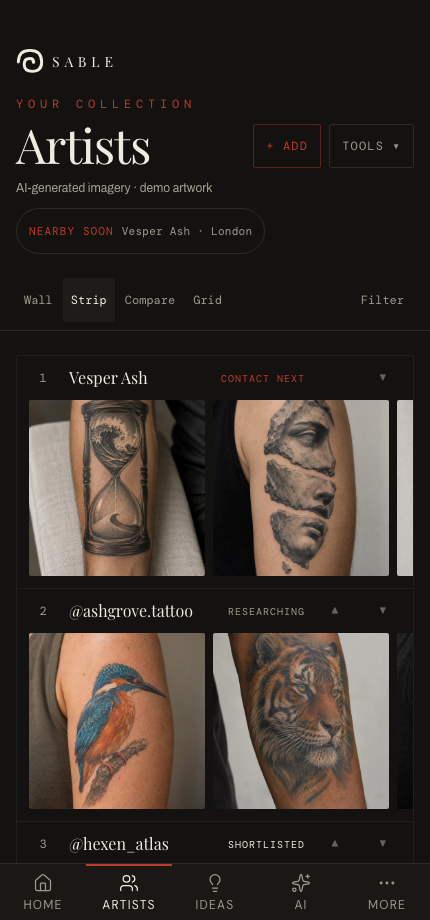
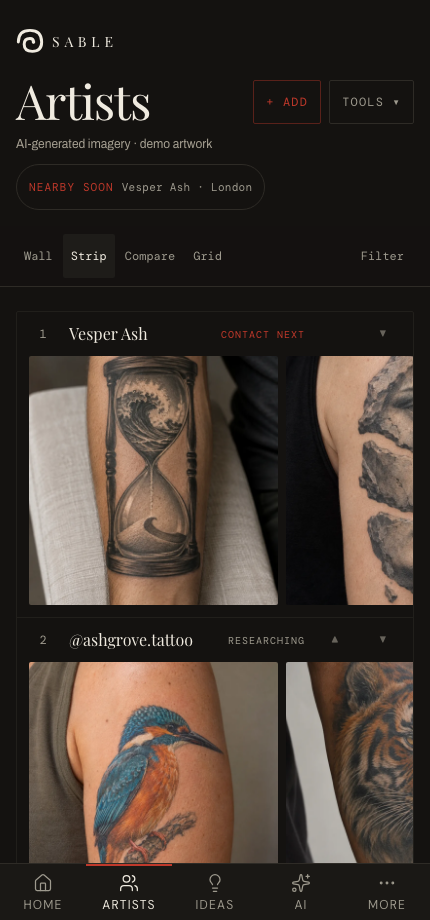
feat(artists): tune the Artists views for a 440px phone (#220)
Strip photos scale with the screen (58vw: 255px at 440, was 176px). Compare
columns scroll with the page instead of inside fixed-height boxes that ran
under the tab bar. The phone header drops its eyebrow line and top padding, so
the first wall photo starts 44px higher. Layout tests cover 440px.

diff --git a/src/components/CompareView.jsx b/src/components/CompareView.jsx
@@ -3,7 +3,9 @@ import ArtistImage from './ArtistImage'
 import useMediaQuery from '../hooks/useMediaQuery'
 import { activateOnKey } from '../a11y/activate'
 
-// #220 E: a column is a name and one run of large photos. The handle, studio and
+// #220 E: a column is a name and one run of large photos. Columns grow with
+// their photos and the page scrolls them together: each used to scroll inside
+// its own fixed-height box, which on a phone ran under the tab bar. The handle, studio and
 // tag pills that sat on every card are on the artist's own page.
 function CompareColumn({ artist, onOpen, onRemove }) {
   const displayName = artist.name || `@${artist.handle}`
@@ -32,7 +34,7 @@ function CompareColumn({ artist, onOpen, onRemove }) {
       </div>
 
       {/* Scrollable images */}
-      <div className="flex-1 overflow-y-auto p-1.5">
+      <div className="p-1.5">
         {artist.images?.length > 0 ? (
           <div data-testid="compare-photos" className="flex flex-col gap-1.5">
             {artist.images.map((src, i) => (
@@ -141,10 +143,9 @@ export default function CompareView({ artists, onOpenArtist }) {
     <div className="px-4">
       {/* Comparison grid */}
       <div
-        className="grid gap-2 md:gap-3"
+        className="grid items-start gap-2 md:gap-3 pb-6"
         style={{
           gridTemplateColumns: `repeat(${Math.min(selected.length + (selected.length < maxCompare ? 1 : 0), maxCompare)}, minmax(0, 1fr))`,
-          height: 'calc(100vh - 200px)',
         }}
       >
         {selected.map((artist) => (

diff --git a/src/test/artistsViews.test.jsx b/src/test/artistsViews.test.jsx
@@ -143,7 +143,10 @@ describe('Filmstrip rows', () => {
   it('show large photos', () => {
     const row = renderStrip()
     const photo = within(row).getByTestId('filmstrip-photo')
-    expect(photo.className).toMatch(/\bw-44\b/)
+    // Sized from the screen's width, so a bigger phone gets bigger photos:
+    // 255px on a 440px iPhone Pro Max, 226px at 390px.
+    expect(photo.className).toMatch(/w-\[58vw\]/)
+    expect(photo.className).toMatch(/h-\[58vw\]/)
     expect(photo.className).not.toMatch(/\bw-24\b/)
   })
 })
@@ -161,6 +164,9 @@ describe('Compare columns', () => {
     expect(within(column).queryByText('@ana_ink')).toBeNull()
     expect(within(column).queryByText('surrealism')).toBeNull()
     expect(within(column).getByTestId('compare-photos').className).not.toMatch(/grid-cols-2/)
+    // Columns scroll with the page, side by side, not each in its own box.
+    expect(column.innerHTML).not.toMatch(/overflow-y-auto/)
+    expect(column.parentElement.style.height).toBe('')
     expect(within(column).getByRole('button', { name: 'Remove Ana from comparison' })).toBeInTheDocument()
     // The name and every photo open the artist.
     expect(within(column).getAllByRole('button', { name: 'Open Ana' })).toHaveLength(2)

diff --git a/src/components/FilmstripView.jsx b/src/components/FilmstripView.jsx
@@ -146,11 +146,11 @@ function FilmstripRow({ artist, onOpen, index, onSetRank, onNudge, onSetStatus, 
               role="button"
               tabIndex={0}
               aria-label={`Open ${displayName}`}
-              className="shrink-0 w-44 h-44 md:w-52 md:h-52 xl:w-60 xl:h-60 rounded-xs overflow-hidden bg-ink-muted cursor-pointer hover:ring-1 hover:ring-cream-muted/30 transition-all"
+              className="shrink-0 w-[58vw] h-[58vw] md:w-52 md:h-52 xl:w-60 xl:h-60 rounded-xs overflow-hidden bg-ink-muted cursor-pointer hover:ring-1 hover:ring-cream-muted/30 transition-all"
               onClick={() => onOpen(artist)}
               onKeyDown={activateOnKey(() => onOpen(artist))}
             >
-              <ArtistImage src={src} sizes="(min-width: 1280px) 240px, (min-width: 768px) 208px, 176px" label={displayName} className="w-full h-full object-cover" monogramClassName="text-3xl" />
+              <ArtistImage src={src} sizes="(min-width: 1280px) 240px, (min-width: 768px) 208px, 58vw" label={displayName} className="w-full h-full object-cover" monogramClassName="text-3xl" />
             </div>
           ))
         ) : (

diff --git a/src/pages/Gallery.jsx b/src/pages/Gallery.jsx
@@ -327,9 +327,10 @@ export default function Gallery({ artists, setArtists, ideas = [], mergedConvent
       {/* Page header */}
       {/* #220 E: the title and its two buttons share one row at every width, so
           the Tools menu always opens from the right edge. */}
-      <div className="px-4 pt-10 pb-4">
+      <div className="px-4 pt-5 md:pt-10 pb-4">
         <Logo size={28} className="mb-3 md:hidden" />
-        <p className="font-mono text-xs text-accent tracking-[0.4em] uppercase mb-2">Your Collection</p>
+        {/* Phones show the logo above instead: one line fewer before the photos. */}
+        <p className="hidden md:block font-mono text-xs text-accent tracking-[0.4em] uppercase mb-2">Your Collection</p>
         {/* Wraps under the title at 320px, staying on the right edge. */}
         <div className="flex flex-wrap items-end justify-between gap-3">
           <h1 className="font-display text-5xl text-cream leading-none tracking-tight">Artists</h1>

diff --git a/e2e/layout.e2e.js b/e2e/layout.e2e.js
@@ -19,7 +19,8 @@ const ROUTES = [
   '/help',
 ]
 
-const WIDTHS = [320, 375, 390, 414]
+// 440 is the owner's phone (iPhone 17 Pro Max, 440 x 956).
+const WIDTHS = [320, 375, 390, 414, 440]
 
 test('a returning demo resets to six favourites without resurrecting extra entries', async ({ page }) => {
   await openDemo(page, '/gallery')

diff --git a/docs/MAINTAINING.md b/docs/MAINTAINING.md
@@ -189,7 +189,7 @@ Three projects: **iphone** (390×844, `isMobile`, touch; runs almost everything)
 
 | File | Guards |
 |---|---|
-| `layout` | No route or gallery view wider than the screen at 320/375/390/414px; Wall controls do not collide and phone Grid labels wrap within two columns |
+| `layout` | No route or gallery view wider than the screen at 320/375/390/414/440px; Wall controls do not collide and phone Grid labels wrap within two columns |
 | `viewers` | Swipe/tap/close in both viewers; delete + undo; drawers paint above the viewer; Escape peels **one** layer |
 | `stl` | Real canvas → mesh → download for relief, line art (+ mask pixels) and lithophane; WebGL preview |
 | `tryon` | Gemini request shape (key in header, three parts); fake-camera drag + pinch; refused-camera photo fallback |
